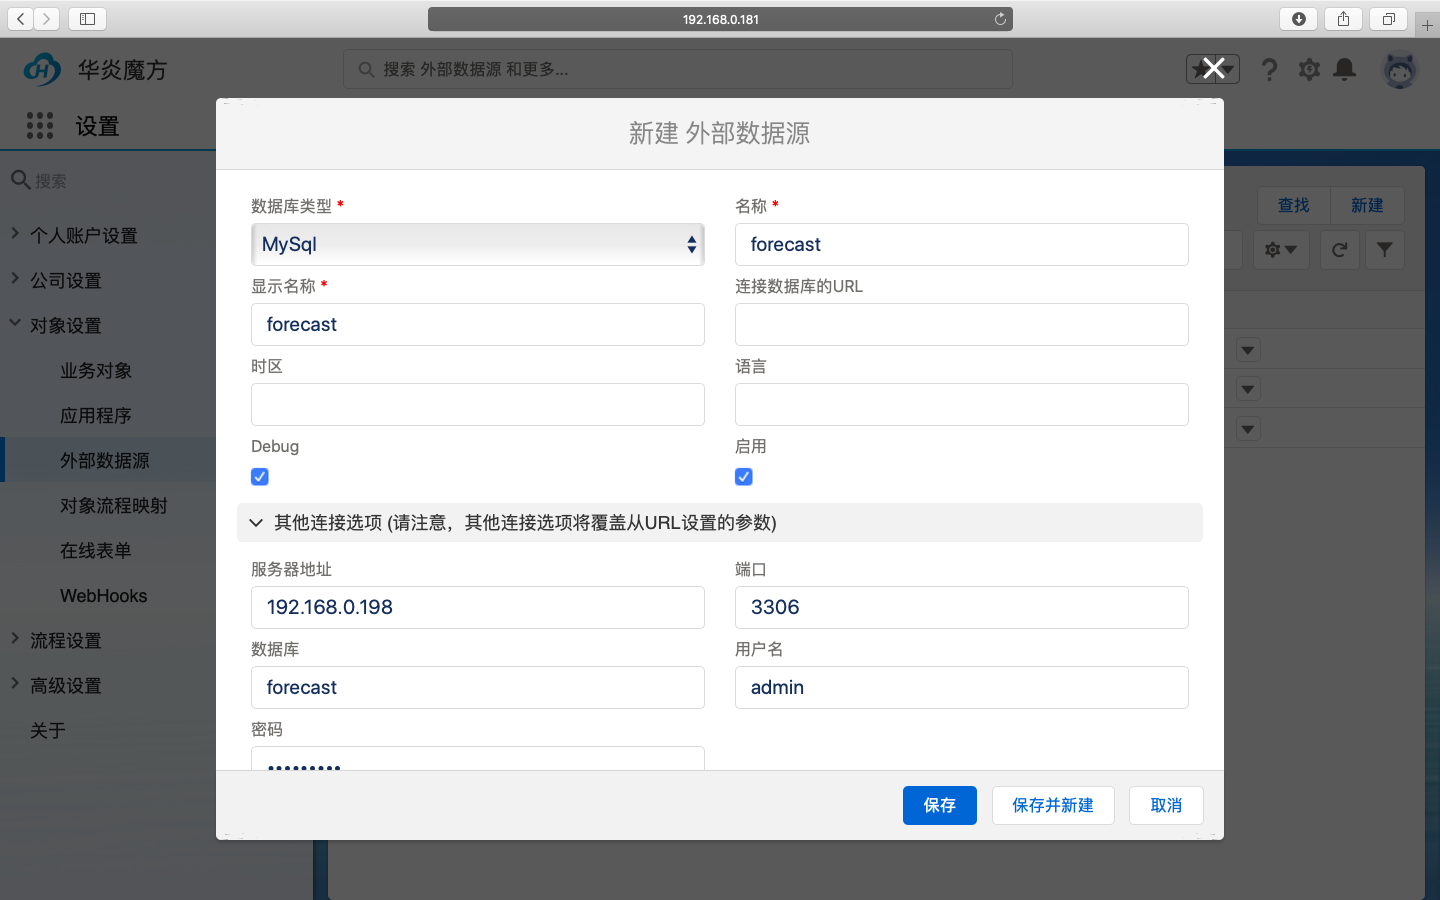
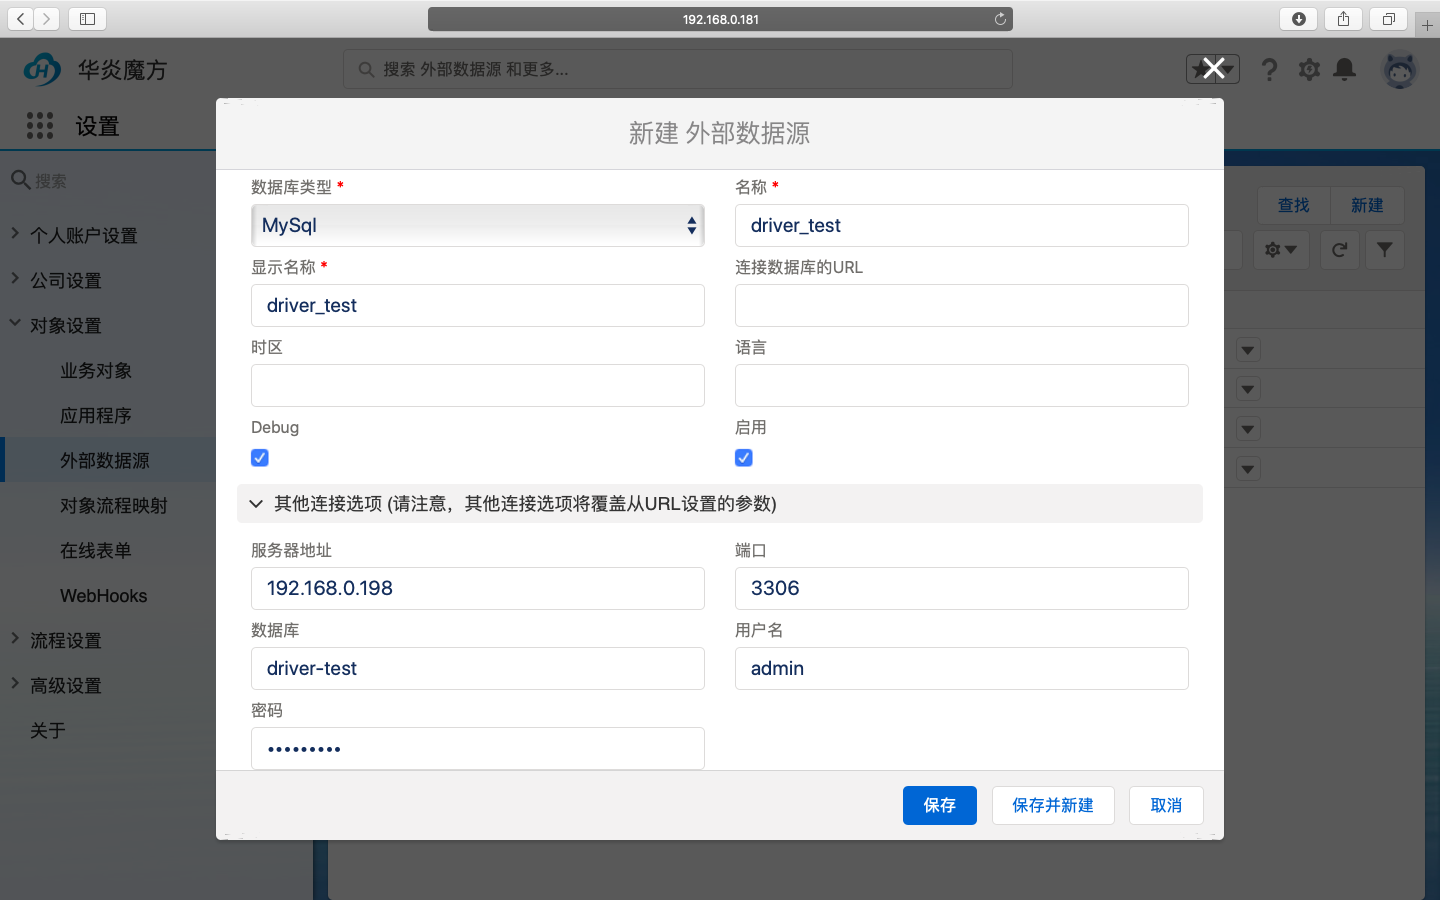
更新零代码-外部数据源

diff --git a/docs/developer/no-code/object_datasources.md b/docs/developer/no-code/object_datasources.md
@@ -6,12 +6,20 @@ title: 零代码 - 外部数据源
 
 ## 创建外部数据源-SQL Server
 
-进入“设置”-“对象设置”-“外部数据源”，新建一个driver-test外部数据源，数据库类型选择“SqlServer”，并依次输入名称(一般为英文)、显示名称、连接数据库的url，url格式为：mssql://管理员账号:密码@服务器地址:1433/数据库。
+进入“设置”-“对象设置”-“外部数据源”，新建一个drivertest外部数据源，数据库类型选择“SqlServer”，并依次输入名称(一般为英文)、显示名称、连接数据库的url，url格式为：mssql://管理员账号:密码@服务器地址:1433/数据库。
 
 ![零代码-外部数据源Sql](/assets/no-code/sqlserver_new.png)
 
 ## 创建外部数据源-MySQL
 
-新建一个forecast外部数据源，数据库类型选择“MySql”，并依次输入名称(一般为英文)、显示名称，并配置分组其他连接选项：服务器地址、端口、数据库、用户名、密码，来替代上面的连接数据库的url，保存并进行测试链接，提示链接成功即完成。
+跟SQL一样，再新建一个driver_test外部数据源，数据库类型选择“MySql”，并依次输入名称(一般为英文)、显示名称，并配置分组项【其他连接选项】：服务器地址、端口、数据库、用户名、密码，来替代上面的连接数据库的url，保存并进行测试链接，提示连接成功即完成。
 
 ![零代码-外部数据源MySql](/assets/no-code/mysql_new.png)
+
+![零代码-外部数据源MySql](/assets/no-code/mysql_datasource.png)
+
+当点击测试链接后，出现如下图提示时，请在项目终端中输入'yarn add mysql'进行mysql插件安装，并重启服务运行，再次尝试测试链接即可提示“连接成功”。
+
+![零代码-外部数据源MySql](/assets/no-code/mysql_error.png)
+
+![零代码-外部数据源MySql](/assets/no-code/mysql_yarn.png)
